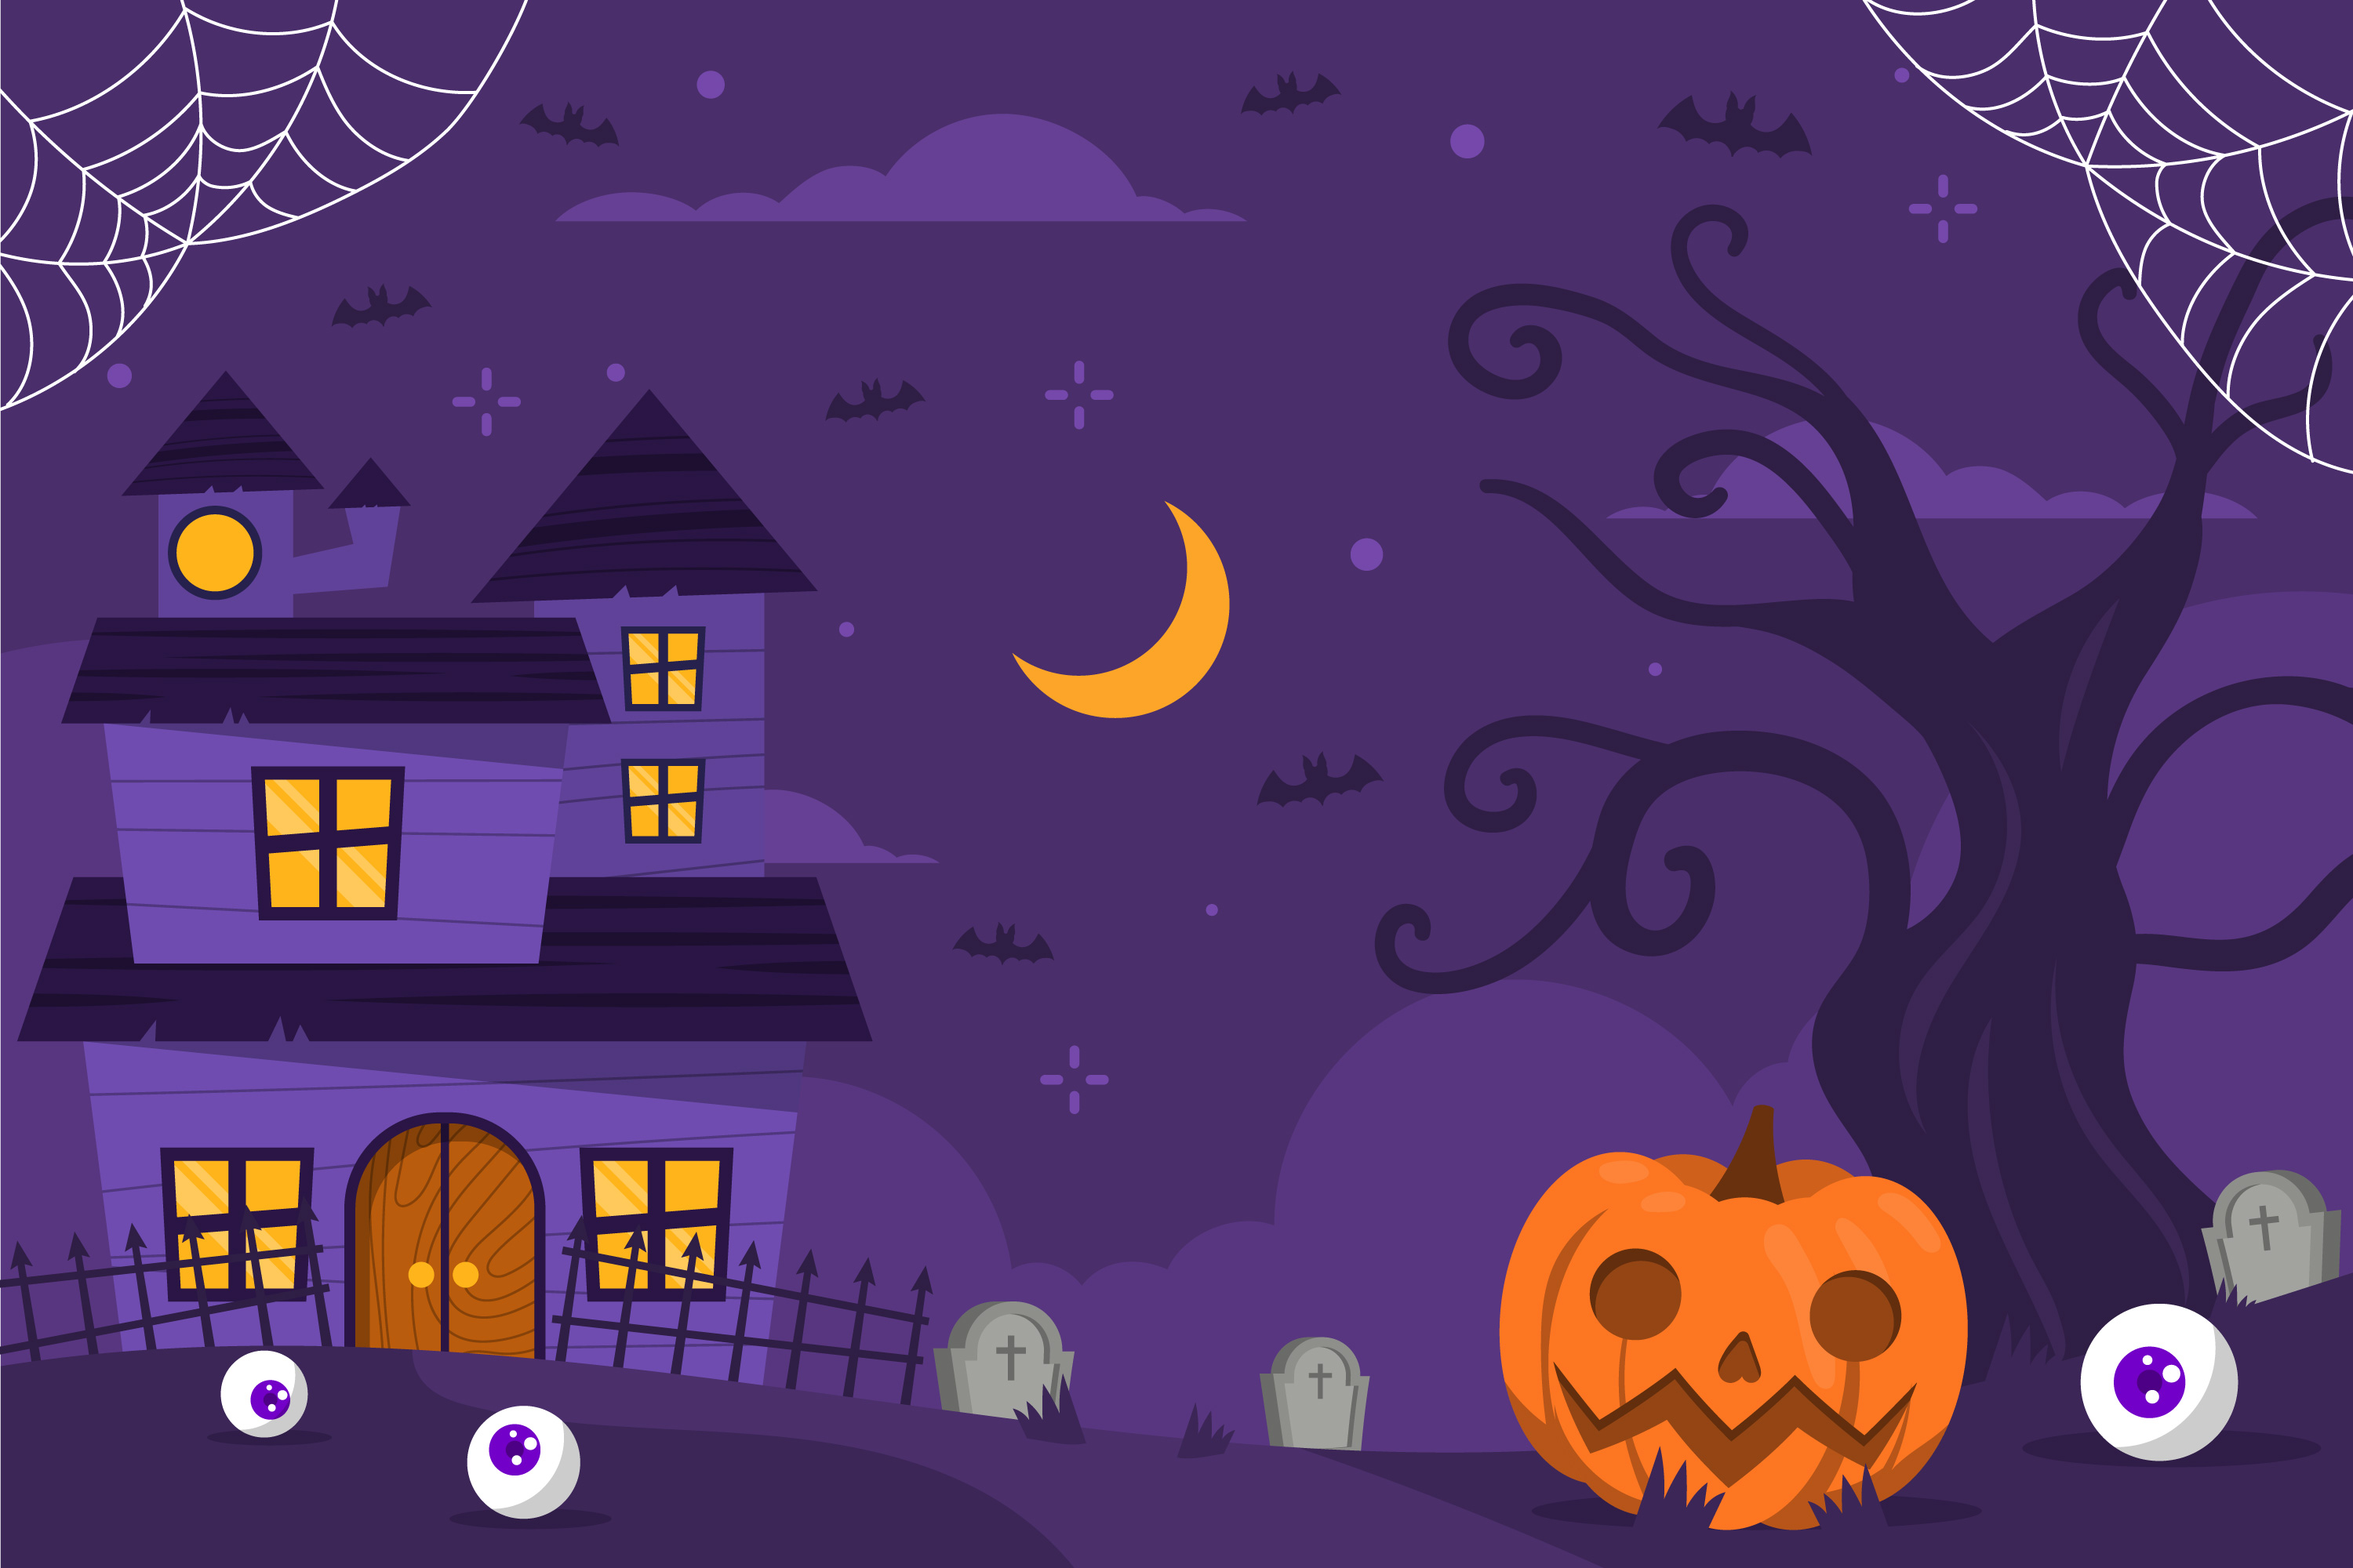
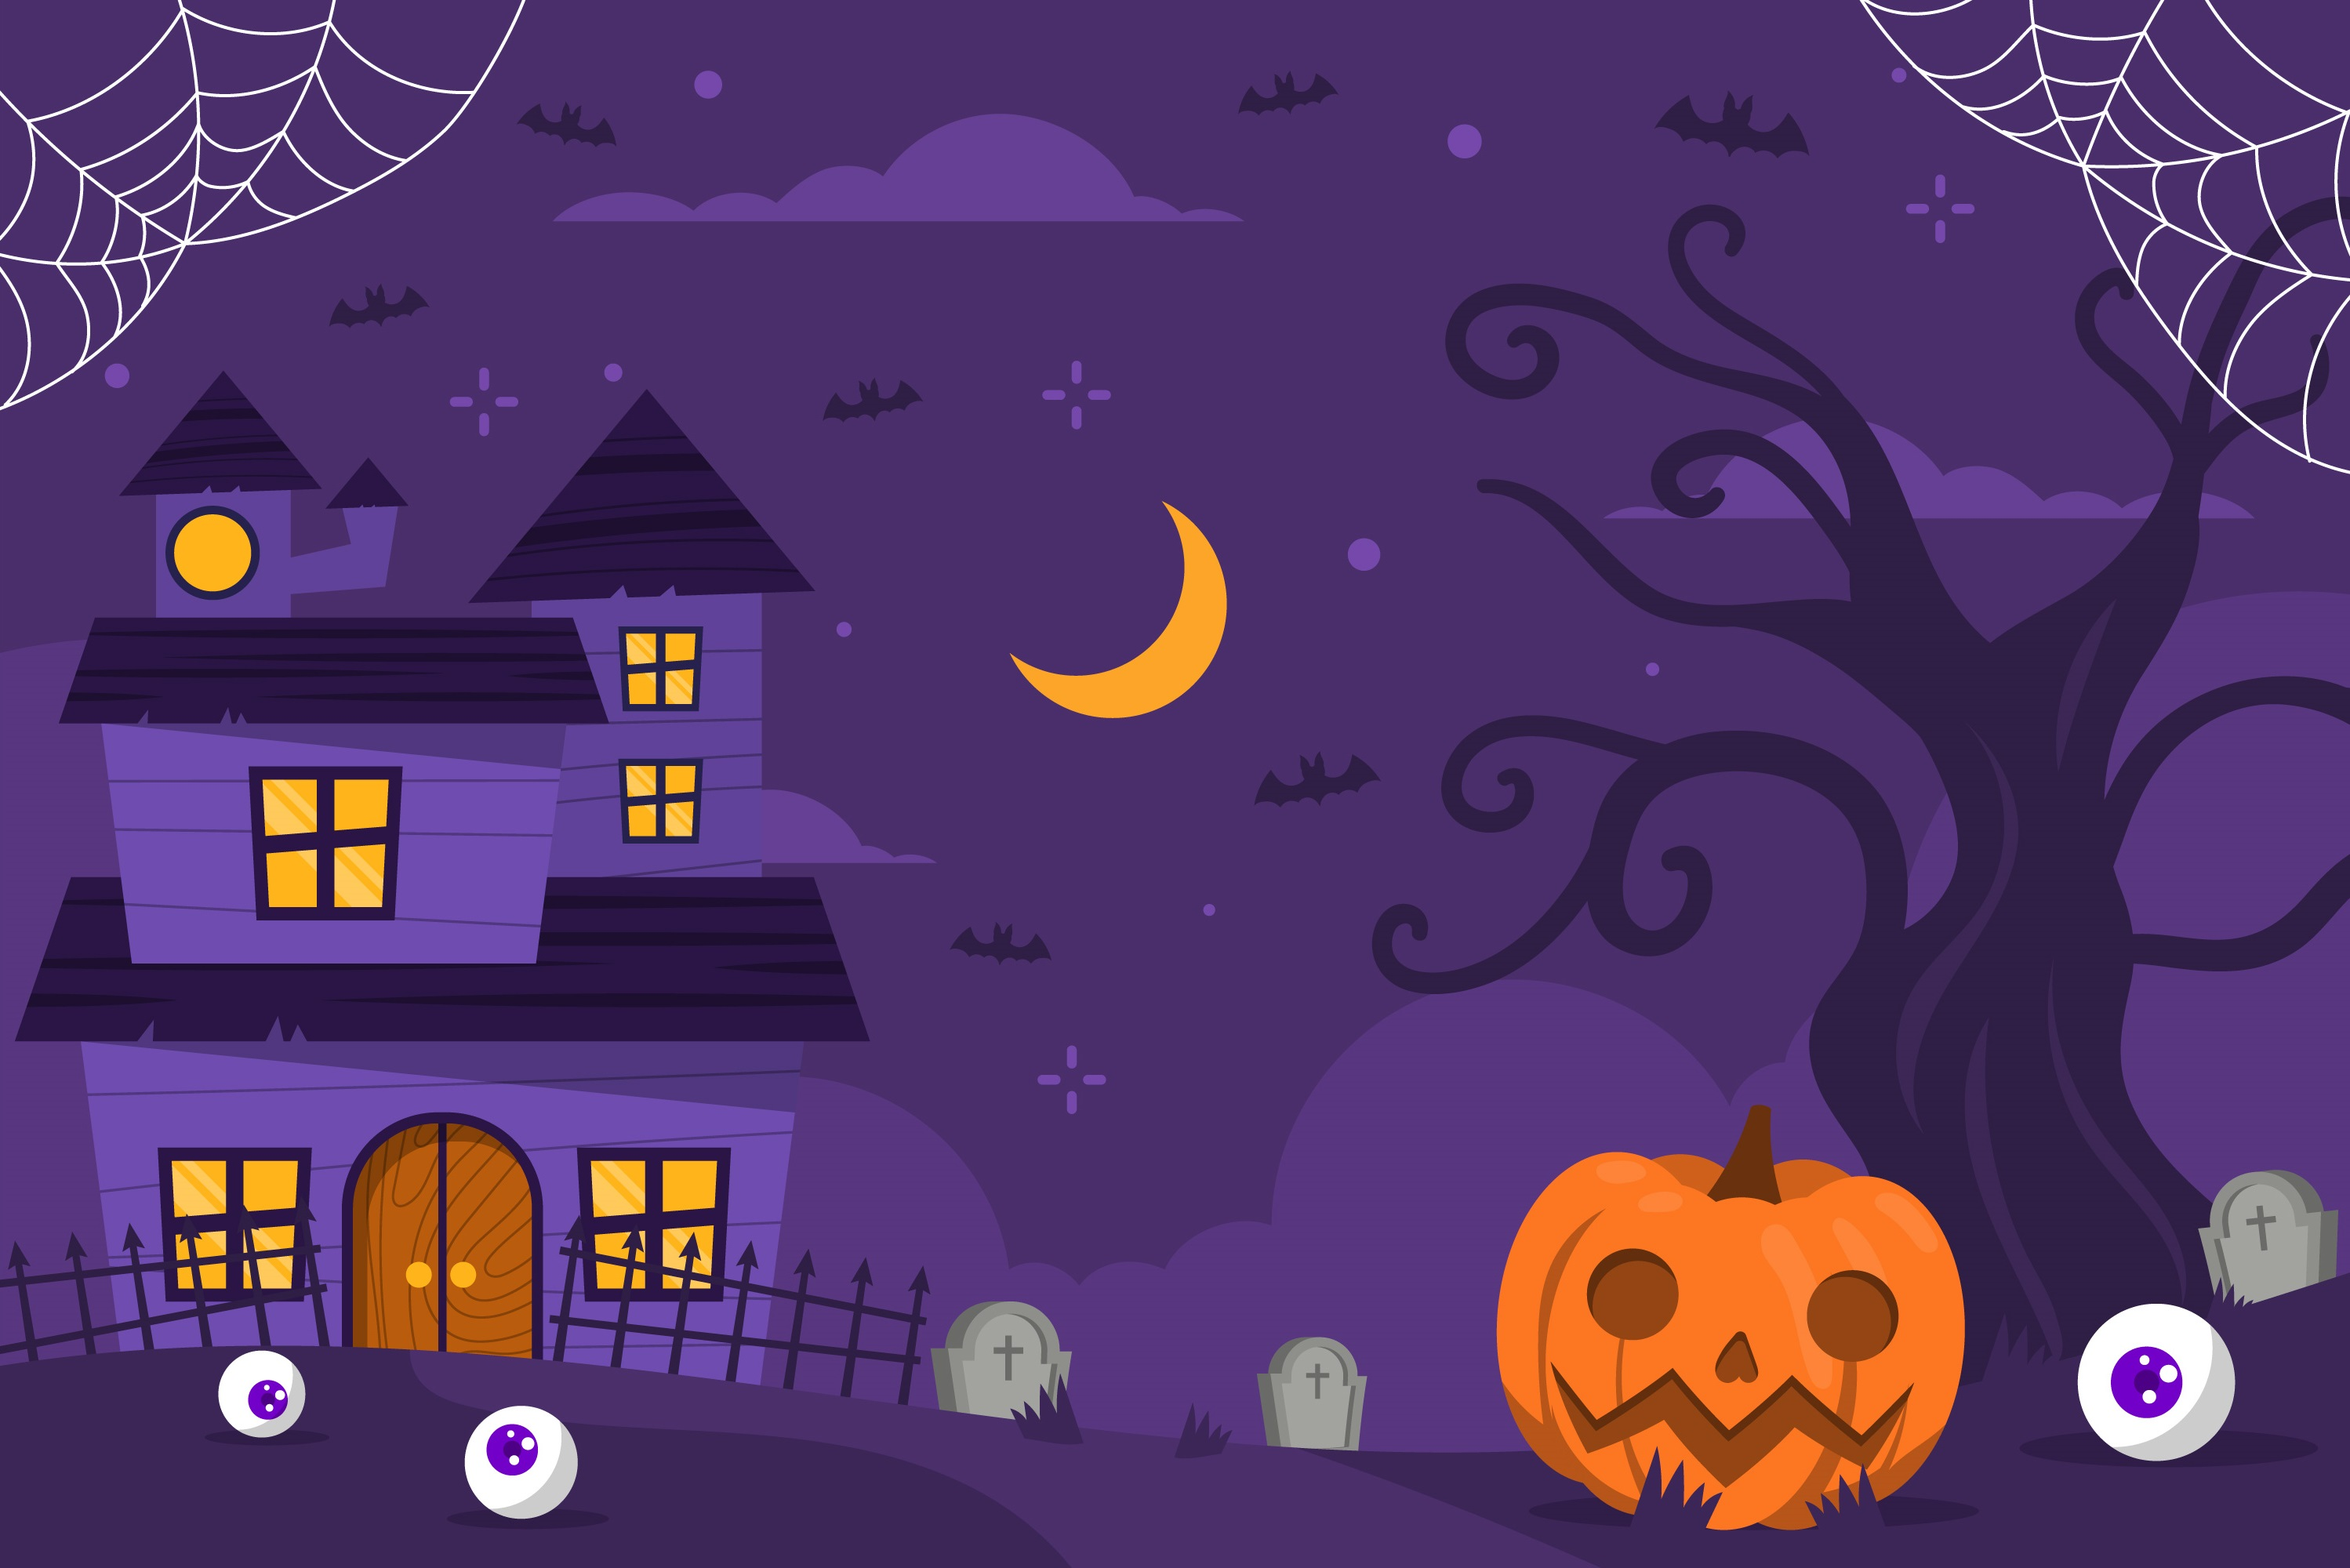
Ejercicio final

diff --git a/halloween/style.css b/halloween/style.css
@@ -1,24 +1,26 @@
 body {
     margin: 0;
     padding: 0;
+    background-color: #4a2e6b;
 }
 
 .fondo {
     background-image: url(img/fondo.jpg);
-    width: 1200px;
-    height: 820px;
+    width: 1550px;
+    height: 100vh;
     background-repeat: no-repeat;
     background-size: contain;
     position: absolute;
     background-position: center;
-    margin: 0 auto;
+    left: -100px;
 }
 
 .fondofalso {
     position: relative;
-    width: 209px;
-    left: 502px;
-    top: 265px;
+    width: 216px;
+    left: 599px;
+    z-index: 1;
+    top: 261px;
     opacity: 0;
     transition: all 0.3s;
 }
@@ -30,27 +32,27 @@ body {
 .lunallena {
     position: absolute;
     width: 150px;
-    left: 485px;
+    left: 672px;
+    z-index: 1;
     top: 0;
     opacity: 0;
-    transition: all 3s;
+    transition: all 6s;
 }
 
 .fondofalso:hover~.lunallena {
-    top: 249px;
+    transform: translateY(249px);
     opacity: 1;
 }
 
 .hombrelobo {
     position: absolute;
     width: 122px;
-    left: 602px;
+    left: 502px;
     top: 660px;
     transform: rotate(270deg);
     opacity: 0;
     transition: transform 6s, opacity 6s;
 }
-
 
 .fondofalso:hover~.hombrelobo {
     transform: rotate(360deg);
@@ -58,6 +60,119 @@ body {
 }
 
 .iluminarCalabaza {
-    width: 1200px;
-    height: 820px;
+    position: absolute;
+    width: 1206px;
+    height: 818px;
+    left: 179px;
+    top: 7px;
+    opacity: 0;
+    z-index: 0;
+    transition: opacity 6s;
+}
+
+.iluminarCalabaza:hover {
+    opacity: 1;
+}
+
+.caraarbol {
+    width: 234px;
+    left: 1087px;
+    position: absolute;
+    top: 459px;
+    opacity: 0;
+    transition: opacity 6s;
+}
+
+.caraarbol:hover {
+    opacity: 1;
+}
+
+.et {
+    position: absolute;
+    width: 74px;
+    left: 702px;
+    top: 280px;
+    opacity: 0;
+    transition: transform 6s, opacity 1s;
+    transition-delay: 6s;
+}
+
+.fondofalso:hover~.et {
+    transform: translateX(249px);
+    opacity: 1;
+}
+
+.contenedor-humo {
+    position: absolute;
+    width: 595px;
+    height: 334px;
+    left: 0;
+    top: 0;
+    opacity: 0;
+}
+
+.contenedor-humo:hover {
+    opacity: 1;
+}
+
+.contenedor-humo:hover .humo {
+    width: 100px;
+    opacity: 0;
+}
+
+.humo {
+    position: absolute;
+    width: 595px;
+    top: 0px;
+    left: 95px;
+    opacity: 1;
+    transform: rotateY(180deg);
+    transition: width 7s, opacity 7s;
+}
+
+
+
+.texto {
+    position: absolute;
+    top: 50%;
+    right: -20px;
+    transform: translateY(-50%);
+    text-align: right;
+    color: #fd7722;
+}
+
+h1,
+h3 {
+    margin: 0;
+}
+
+.tumba {
+    position: absolute;
+    left: 662px;
+    top: 693px;
+    width: 47px;
+    z-index: 2;
+    opacity: 0;
+    transition: opacity 0s;
+}
+
+.cruz {
+    position: absolute;
+    left: 662px;
+    top: 693px;
+    width: 47px;
+    opacity: 0;
+    z-index: 2;
+    transform: rotate(0deg);
+    transition: all 0s;
+}
+
+.tumba:hover {
+    opacity: 1;
+}
+
+.tumba:hover~.cruz {
+    opacity: 1;
+    z-index: 3;
+    transform: rotate(180deg);
 }

diff --git a/halloween/casaencantada.html b/halloween/casaencantada.html
@@ -16,6 +16,17 @@
         <img class="lunallena" src="img/lunallena.png">
         <img class="hombrelobo" src="img/hombrelobo.png">
         <img class="iluminarCalabaza" src="img/iluminarCalabaza.png">
+        <img class="caraarbol" src="img/caraarbol.png">
+        <div class="contenedor-humo"><img class="humo" src="img/humo.gif"></div>
+        <img class="et" src="img/et.png">
+        <div class="tumbacruz">
+            <img class="tumba" src="img/tumba.png">
+            <img class="cruz" src="img/cruz.png">
+        </div>
+        <div class="texto">
+            <h1>Mario Díaz</h1>
+            <h3>Happy Halloween</h3>
+        </div>
     </div>
 
     <script>
